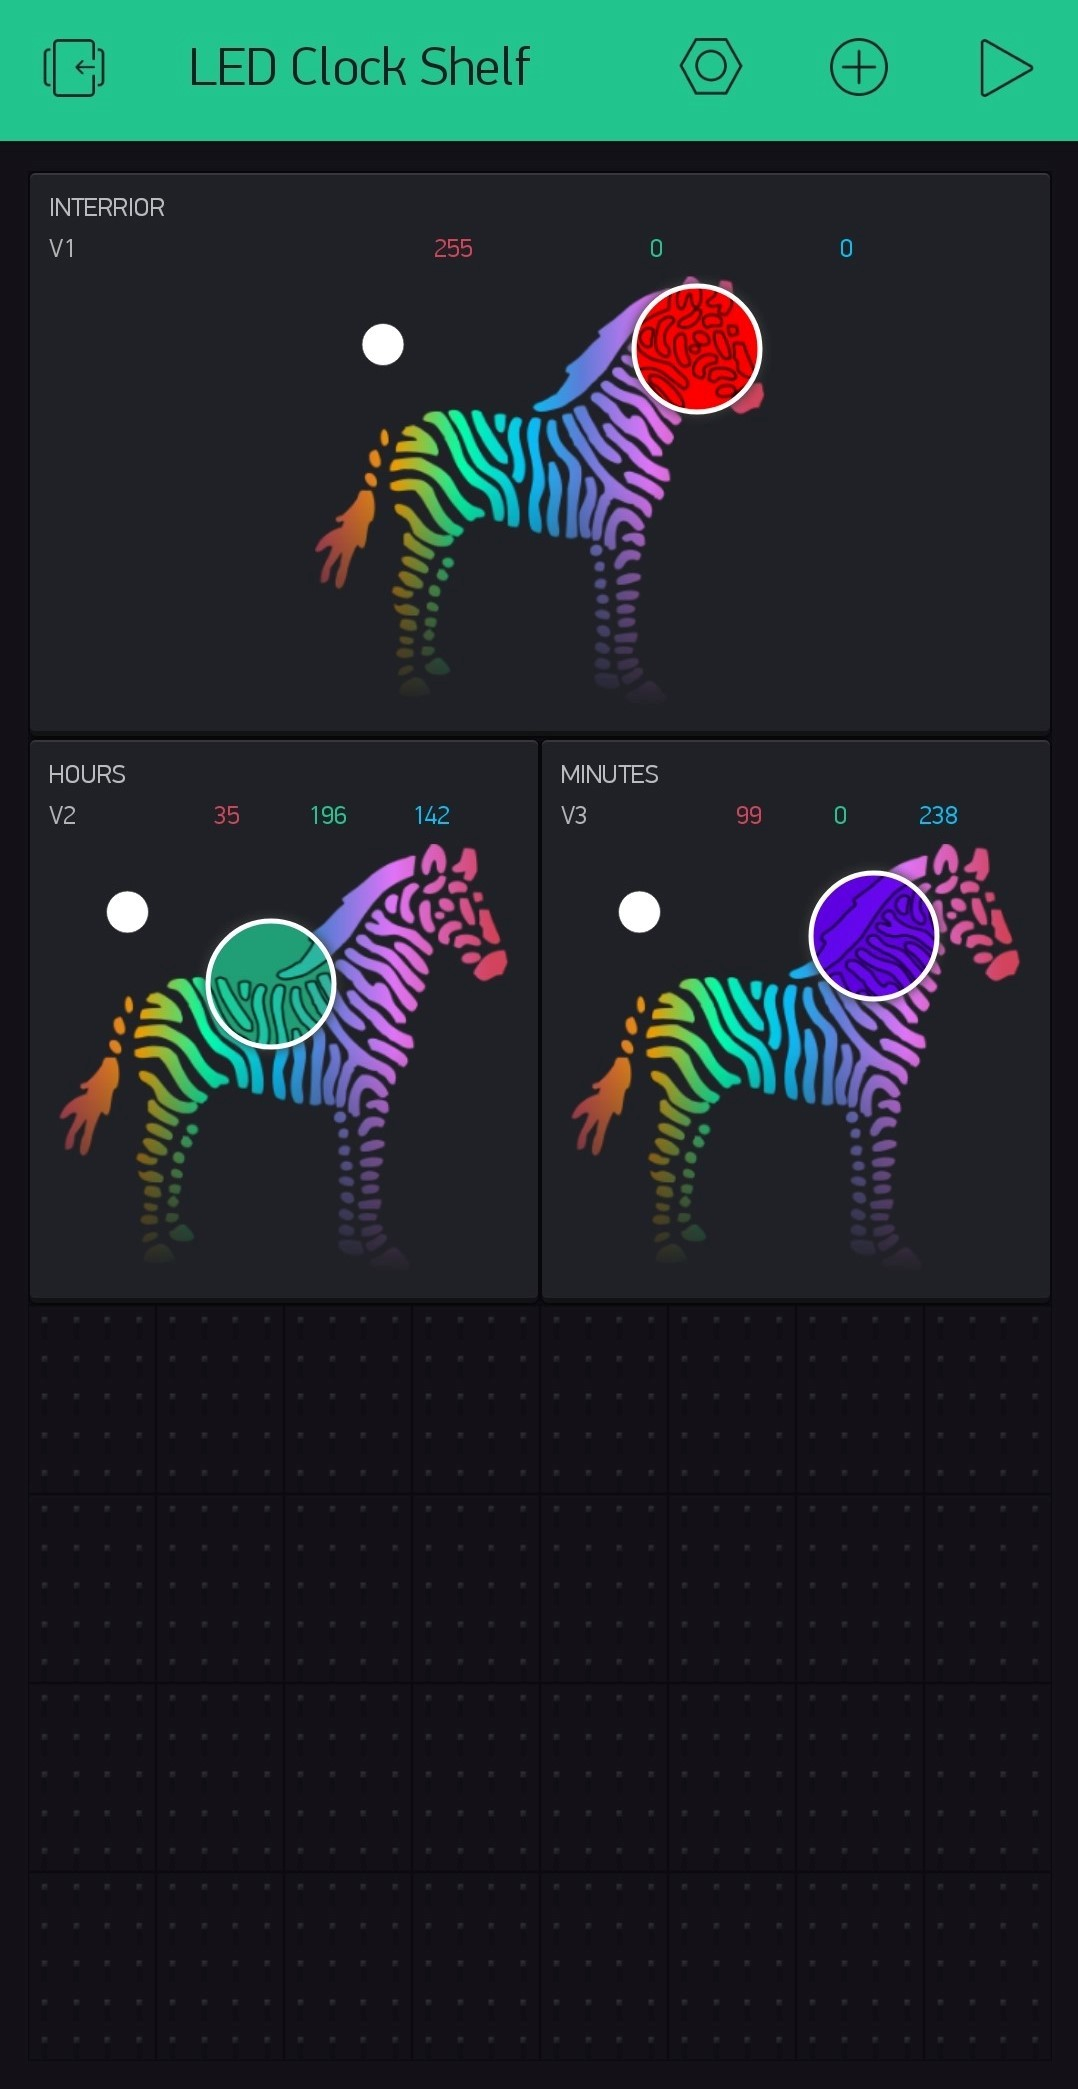
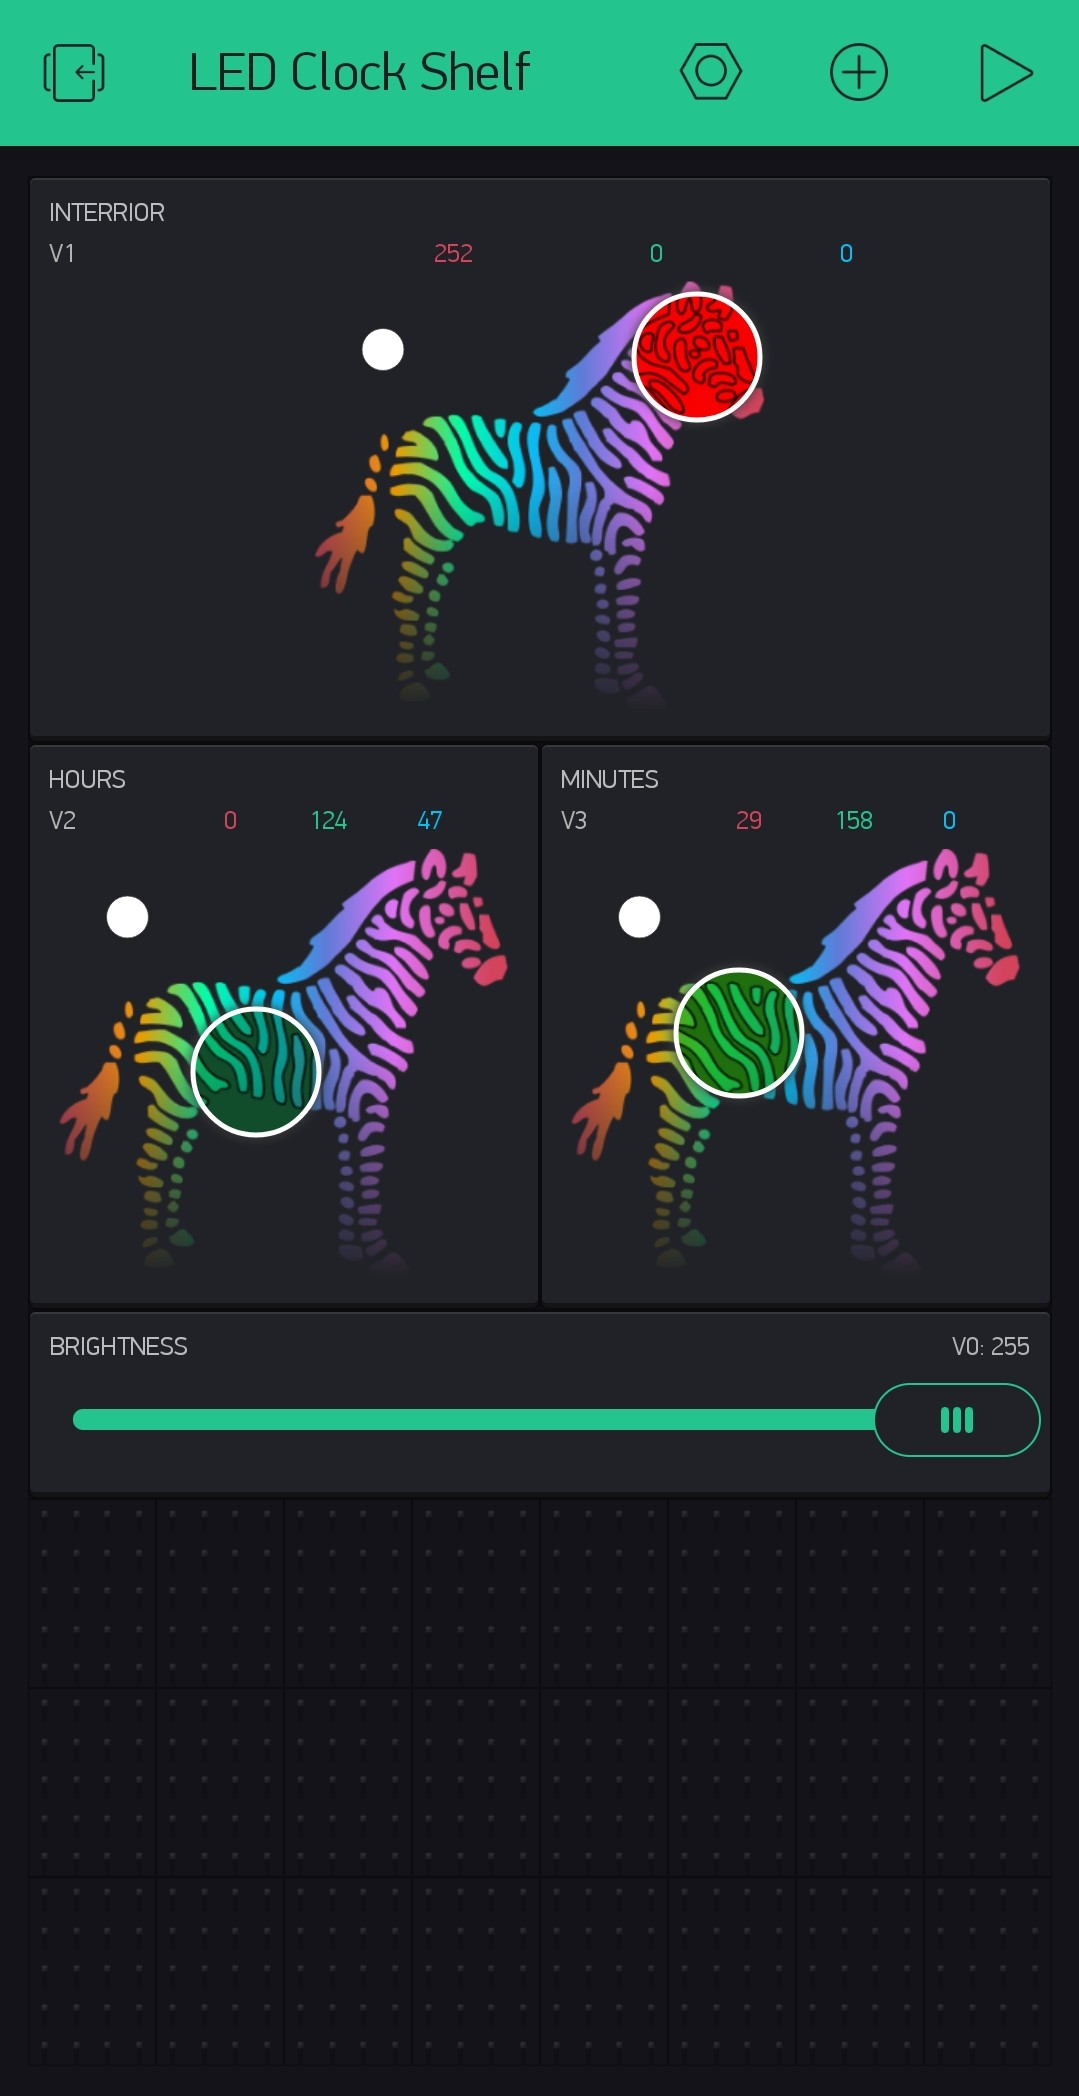
Added Blynk brightness control

diff --git a/src/main.cpp b/src/main.cpp
@@ -185,11 +185,17 @@ void loop()
 #if IS_BLYNK_ACTIVE == true
 	BLYNK_CONNECTED()
 	{
+		Blynk.syncVirtual(V0);
 		Blynk.syncVirtual(V1);
 		Blynk.syncVirtual(V2);
 		#if BLYNK_SEPERATE_COLOR_CONTROL == true
 			Blynk.syncVirtual(V3);
 		#endif
+	}
+
+	BLYNK_WRITE(V0) 
+	{
+		ShelfDisplays.setGlobalBrightness(param[0].asInt());
 	}
 
 	BLYNK_WRITE(V1) 

diff --git a/lib/DisplayManager/DisplayManager.cpp b/lib/DisplayManager/DisplayManager.cpp
@@ -219,7 +219,7 @@ void DisplayManager::delay(uint32_t timeInMs)
 	animationManager.delay(timeInMs);
 }
 
-void setGlobalBrightness(uint8_t brightness)
+void DisplayManager::setGlobalBrightness(uint8_t brightness)
 {
 	FastLED.setBrightness(brightness);
 }
